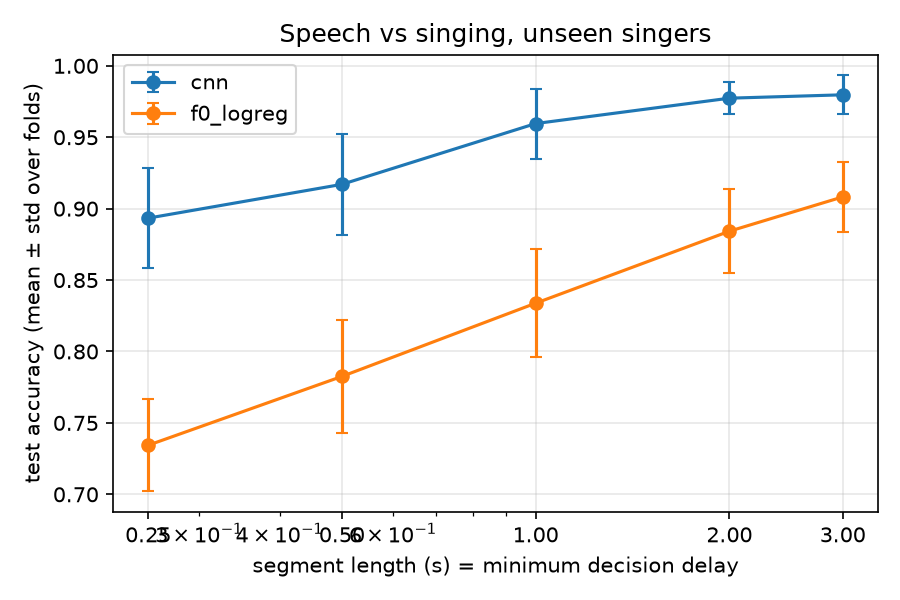
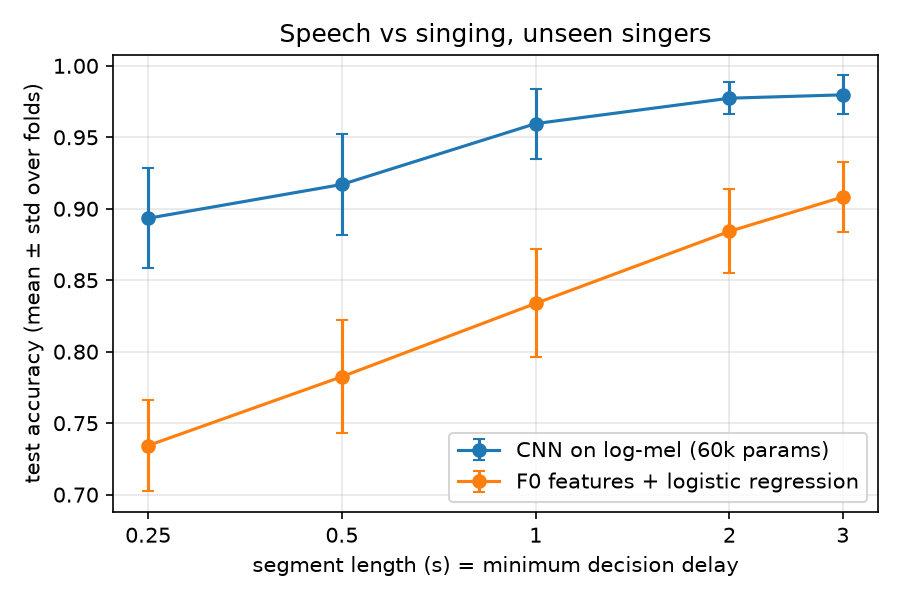
Move scripts into the vc package, fix plot axis

diff --git a/vc/report.py b/vc/report.py
@@ -1,6 +1,6 @@
 """Summarise results/runs.jsonl: mean +- std over folds, and the accuracy-vs-length curve.
 
-    python report.py
+    python -m vc.report
 """
 import json
 from collections import defaultdict
@@ -19,6 +19,7 @@ for r in runs:
 rows = ["| model | segment (s) | folds | accuracy | macro-F1 | CPU latency model / feat+model (ms) | params | MACs |",
         "|---|---|---|---|---|---|---|---|"]
 curves = defaultdict(list)
+NAMES = {"cnn": "CNN on log-mel (60k params)", "f0_logreg": "F0 features + logistic regression"}
 for (model, seg), rs in sorted(groups.items()):
     acc = np.array([r["accuracy"] for r in rs])
     f1 = np.array([r["macro_f1"] for r in rs])
@@ -35,11 +36,12 @@ print(table)
 fig, ax = plt.subplots(figsize=(6, 4))
 for model, pts in curves.items():
     s, m, e = map(np.array, zip(*sorted(pts)))
-    ax.errorbar(s, m, yerr=e, marker="o", capsize=3, label=model)
+    ax.errorbar(s, m, yerr=e, marker="o", capsize=3, label=NAMES.get(model, model))
 ax.set(xscale="log", xlabel="segment length (s) = minimum decision delay",
        ylabel="test accuracy (mean ± std over folds)", title="Speech vs singing, unseen singers")
-ax.set_xticks(sorted({p[0] for v in curves.values() for p in v}))
-ax.get_xaxis().set_major_formatter(matplotlib.ticker.ScalarFormatter())
+ticks = sorted({p[0] for v in curves.values() for p in v})
+ax.set_xticks(ticks, [f"{t:g}" for t in ticks])
+ax.minorticks_off()
 ax.grid(alpha=0.3)
 ax.legend()
 fig.tight_layout()

diff --git a/vc/eval_folder.py b/vc/eval_folder.py
@@ -1,6 +1,6 @@
 """Test a trained model on your own recordings (never used for training).
 
-    python eval_folder.py --ckpt checkpoints/cnn_seg1.0_fold0.pt --data data/own
+    python -m vc.eval_folder --ckpt checkpoints/cnn_seg1.0_fold0.pt --data data/own
 Layout: data/own/<NAME>/{read,sing}/*.wav   (same layout as NUS-48E)
 """
 import argparse
@@ -10,7 +10,7 @@ from pathlib import Path
 import numpy as np
 import torch
 
-from train import predict
+from vc.train import predict
 from vc.data import CLASS_NAMES, load_corpus, segments
 from vc.metrics import scores
 from vc.model import VocalCNN

diff --git a/vc/train.py b/vc/train.py
@@ -1,7 +1,7 @@
 """Train + evaluate the CNN with speaker-independent cross-validation.
 
-    python train.py --seg 1.0 --fold 0          # one run (tonight)
-    python train.py --seg 0.25 0.5 1 2 3        # all folds, all lengths
+    python -m vc.train --seg 1.0 --fold 0          # one run
+    python -m vc.train --seg 0.25 0.5 1 2 3        # all folds, all lengths
 Each run appends one JSON line to results/runs.jsonl.
 """
 import argparse

diff --git a/vc/eval_ccmusic.py b/vc/eval_ccmusic.py
@@ -1,6 +1,6 @@
 """Cross-dataset check: every ccmusic clip is SUNG, so a good model should say 'singing'.
 
-    python eval_ccmusic.py --ckpt checkpoints/cnn_seg0.5_fold0.pt
+    python -m vc.eval_ccmusic --ckpt checkpoints/cnn_seg0.5_fold0.pt
 Reads the Hugging Face .arrow files directly with pyarrow (no `datasets` needed).
 """
 import argparse

diff --git a/vc/baseline_f0.py b/vc/baseline_f0.py
@@ -3,7 +3,7 @@
 Question it answers: how much of speech-vs-singing is explained by F0 alone?
 Scored on exactly the same segments and folds as the CNN.
 
-    python baseline_f0.py --seg 0.25 0.5 1 2 3
+    python -m vc.baseline_f0 --seg 0.25 0.5 1 2 3
 """
 import argparse
 import json

diff --git a/README.md b/README.md
@@ -19,12 +19,13 @@ That decides how fast a real-time system (e.g. a unified speech/singing voice co
 ## Run
 
 ```
-python -m pytest -q                          # 7 checks, no data needed
-python train.py --seg 1.0 --fold 0           # one quick run
-python train.py --seg 0.25 0.5 1 2 3         # full CV, all lengths
-python baseline_f0.py --seg 0.25 0.5 1 2 3
-python eval_ccmusic.py --ckpt checkpoints/cnn_seg0.5_fold0.pt
-python report.py                             # table + results/accuracy_vs_length.png
+python -m pytest -q                                 # 7 checks, no data needed
+python -m vc.train --seg 1.0 --fold 0               # one quick run
+python -m vc.train --seg 0.25 0.5 1 2 3             # full CV, all lengths
+python -m vc.baseline_f0 --seg 0.25 0.5 1 2 3
+python -m vc.eval_ccmusic --ckpt checkpoints/cnn_seg0.5_fold0.pt
+python -m vc.eval_folder --ckpt checkpoints/cnn_seg1.0_fold0.pt --data data/own   # your own recordings
+python -m vc.report                                 # table + results/accuracy_vs_length.png
 ```
 
 Data layout: `data/nus-smc-corpus_48/<SINGER>/{read,sing}/*.wav`, `data/chest_falsetto/default/*/*.arrow`.
